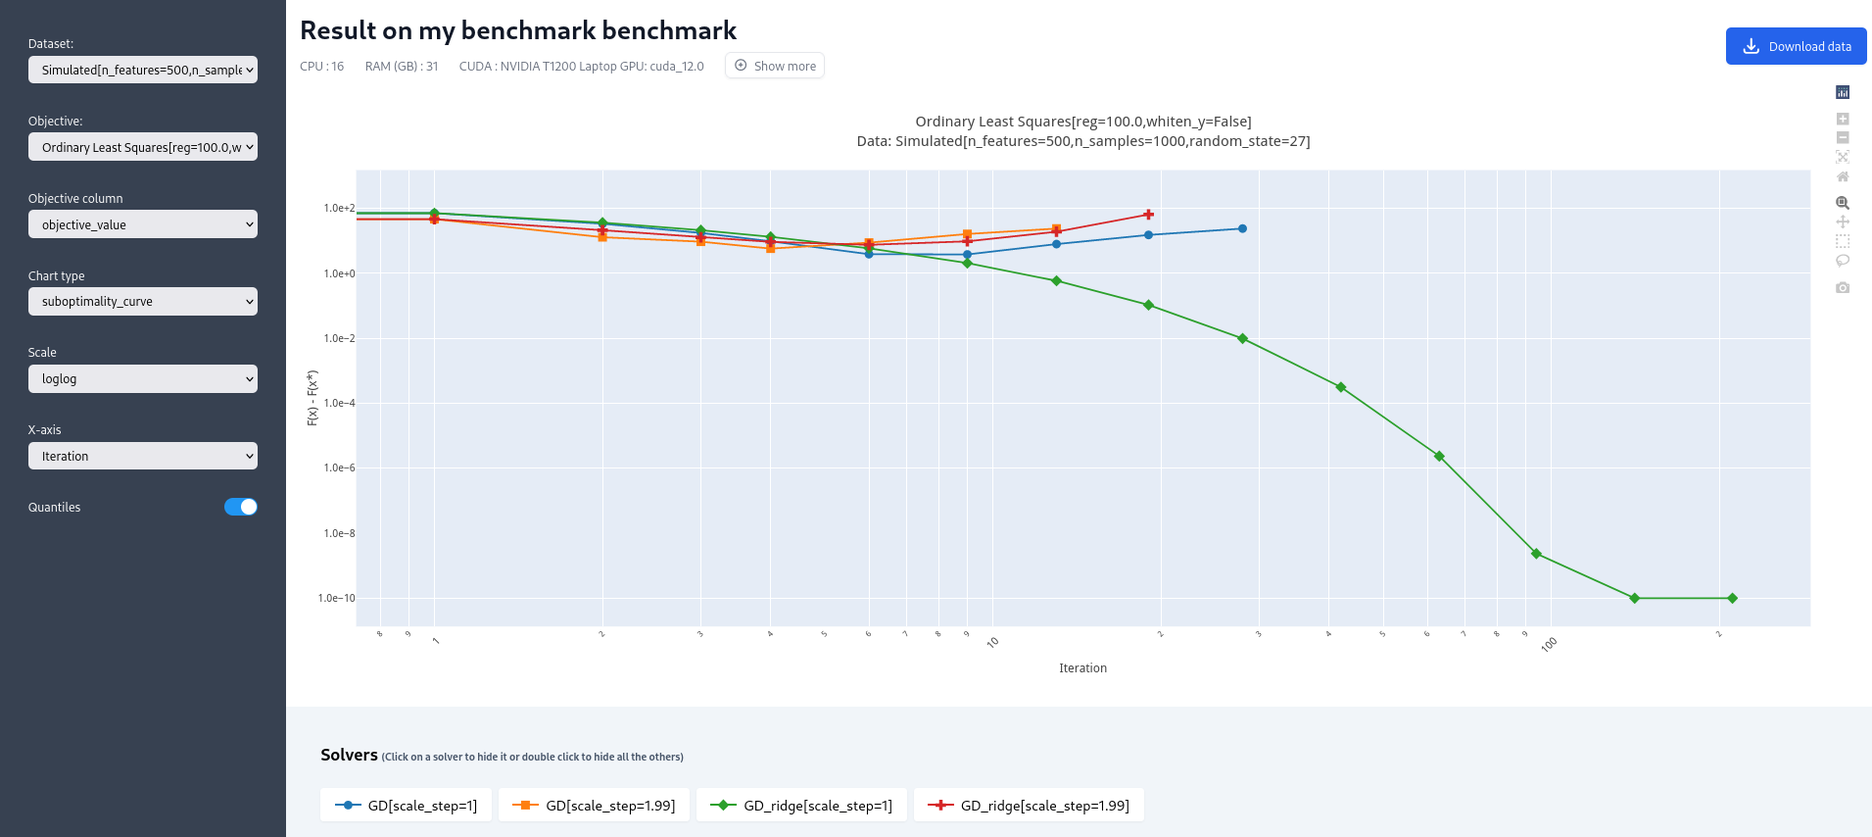
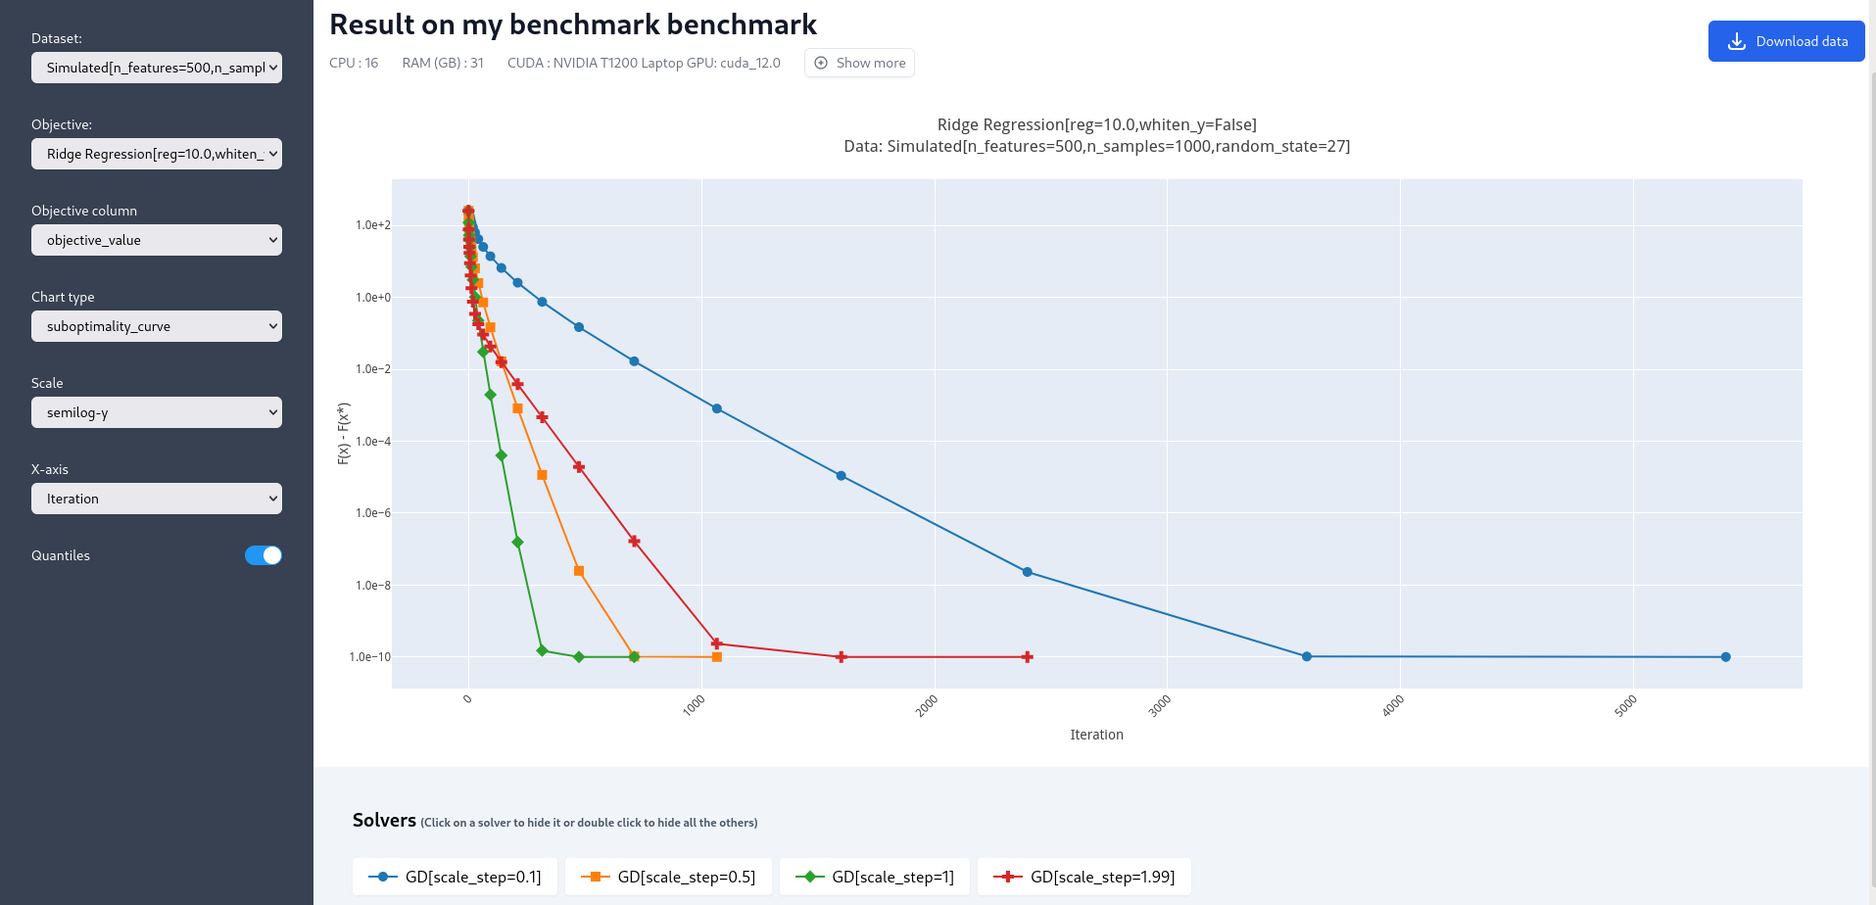
Updating the benchmark tutorial
- Simplification of the solver, only GD for ridge now
- Reworked the conclusion/observations
- Updated all links to match new documentation

The tutorial is broken until the release of 1.5 because template_benchmark is broken.

diff --git a/doc/tutorials/tutorial_understanding_building_benchmark.rst b/doc/tutorials/tutorial_understanding_building_benchmark.rst
@@ -1,22 +1,23 @@
 Understanding and building a simple benchmark
 =============================================
 
-Are you looking for a simple, step-by-step introduction to the `Benchopt <https://benchopt.github.io/#>`_ library?
+Are you looking for a simple, step-by-step introduction to the `Benchopt <https://benchopt.github.io/index.html>`_ library?
 Then look no further!
 In this tutorial, we are going to learn how to use the Benchopt library to compare various algorithms in order to minimize a given cost.
-This tutorial complements the `write a benchmark <https://benchopt.github.io/how.html>`_ webpage with a more practical, hands-on approach. 
+This tutorial complements the `write a benchmark <https://benchopt.github.io/benchmark_workflow/write_benchmark.html>`_ webpage with a more practical, hands-on approach. 
 
-Let's say you are interested in benchmarking solvers to minimize the cost function of the `ridge regression problem <https://en.wikipedia.org/wiki/Ridge_regression>`_, a variant of linear regression which is a common problem in supervised machine learning.
+Let's say you are interested in benchmarking solvers to minimize the cost function of the `ridge regression problem <https://en.wikipedia.org/wiki/Ridge_regression>`_, a variant of linear regression which is a common problem in supervised machine learning. This cost function writes as follows:
 
 .. math::
 
     f(\beta) = \frac{1}{2} {\|y - X\beta\|}^2 + \lambda{\|\beta\|}^2
 
 where
+
     - \\(y\\) is a vector with \\(m\\) elements, typically some observations
     - \\(X\\) is a matrix with \\(m \\times n\\) elements, typically the regressors
     - :math:`\beta` is a vector with \\(n\\) elements that we obtain by regressing \\(y\\) on \\(X\\).
-    - \\(\\|x\\|\\) is the euclidean norm of \\(x\\).
+    - \\(\\|\\cdot\\|\\) is the Euclidean norm.
      
 
 Let us also suppose that we are working with a specific optimization algorithm that aims at solving the ridge regression problem: `the gradient descent (GD) algorithm <https://en.wikipedia.org/wiki/Gradient_descent>`_.
@@ -30,18 +31,15 @@ Given an estimate :math:`\beta`, GD iterates the following step:
 where :math:`\eta` is the learning rate or stepsize, and controls how much the iterate is moved alongside the descent direction.
 The vector :math:`\nabla f(\beta)` is the gradient of the cost function defined above, evaluated at \\(\\beta\\).
 
-Even though GD is a simple algorithm, when applied to our ridge regression problem, we should be mindful of the two hyperparameters: the regularization parameter \\(\\lambda\\), and the gradient stepsize \\( \\eta\\).
+Ridge regression computed with GD is overall a simple procedure, however
+we should be mindful of the two hyperparameters: the regularization parameter \\(\\lambda\\), and the gradient stepsize \\( \\eta\\).
 It is very common in machine learning that we are facing a situation where we want to vary these parameters, and compare the behavior of our algorithm in each scenario.
 Benchopt we can create a benchmark for this problem, here is a screenshot of what we will get at the end of this tutorial.
 
-.. image:: screenshot_mytemplate_ridgeloss.png
+.. figure:: screenshot_mytemplate_ridgeloss.png
     :width: 800
 
 We can now dive into the framework and see how to leverage it to easily create our benchmark!
-
-..
-    - It is also fairly common to have to compare several different optimization algorithms to minimize the same cost function. For anyone who has experience in this, performing fair comparisons between various algorithms, which are typically implemented by other people, is quite challenging to do properly. For instance, our implementation of GD may be incorrect. If we trust the algorithm to return a loss function which is computed inside the GD code, it may potentially be artificially small. For instance, when implementing GD, we might mistakingly return as the loss :math:`\frac{1}{2} {\|y - X\beta\|_2}^2 + \frac{1}{2}\lambda{\|\beta\|_2}^2` where the regularization has been wrongly halved. Then this implementation of GD would appear much better, but in fact it is being unfairly compared to competitors and the results reported would be inaccurate.
-
 
 Installing Benchopt
 -------------------
@@ -50,30 +48,27 @@ Let's start by installing the benchopt package.
 It is a python package, so we are assuming that you are starting this tutorial with a functioning python installation.
 It is recommended to run all this tutorial in a dedicated environment (such as a `virtual environment <https://docs.python.org/fr/3/library/venv.html>`_ or a conda environment)
 
-.. 
-    , which you can create in an empty repository with the following commands in a linux terminal:
-
-    .. code-block:: bash
-
-        python -m venv benchopt_tutorial_1
-        source benchopt_tutorial_1/bin/activate
-
 Benchopt can be installed simply using ``pip`` by running in a terminal
 
 .. prompt:: bash $
 
-    pip install benchopt
+    pip install -U benchopt
 
 Benchopt and its dependencies are going to be installed, just wait until this is done.
-If you have any issue with the installation, you may have a look at the `installation page <https://benchopt.github.io/#install>`_.
+If you have any issue with the installation, you may have a look at the `installation page <https://benchopt.github.io/get_started.html>`_.
 
 Installing and running a first benchmark
 ----------------------------------------
 
 Benchopt in itself is like a mother package: it supervises and runs smaller libraries, a.k.a. the benchmarks.
 Therefore, **benchmarks are repositories** with a predefined structure and some required files (we will go over each of them in the next section) that are processed by benchopt.
-The benchmark specifies information about the problem (typically the loss function to minimize), the dataset on which the algorithms are tested (values of \\(X \\) and \\( y\\)) and the solvers (like our GD algorithm).
-It is likely that if you are reading this tutorial, you are in fact mostly interested in writing and running a benchmark.
+The benchmark specifies information about:
+
+    - the problem (typically the loss function to minimize), 
+    - the dataset on which the algorithms are tested (values of \\(X \\) and \\( y\\)) 
+    - the solvers (like our GD algorithm).
+     
+It is likely that if you are reading this tutorial, you are in fact interested in writing and running a benchmark.
 
 To write a benchmark, it is recommended to start from the `template benchmark <https://github.com/benchopt/template_benchmark>`_ shared in the Benchopt organisation.
 To get this template and rename it ``my_benchmark``, you can clone it from its Github repository:
@@ -81,6 +76,8 @@ To get this template and rename it ``my_benchmark``, you can clone it from its G
 .. prompt:: bash $
 
     git clone git@github.com:benchopt/template_benchmark my_benchmark
+
+**bugged right now, use commit 9f367b4d2803ec3130efbef80c1e18977d1c3dd0**
 
 The template benchmark is not designed to model our ridge regression problem, but luckily it is pretty close!
 The cost which is implemented in the template benchmark is the Ordinary Least Squares (OLS)
@@ -92,7 +89,7 @@ The cost which is implemented in the template benchmark is the Ordinary Least Sq
 and the only implemented solver is GD with \\(\\nabla g(\\beta) = -X^Ty + X^TX\\beta \\) the gradient of \\(g\\) at \\(\\beta \\).
 
 We will modify this template to adapt it to the ridge regression problem next, but before that let us run this benchmark.
-In other words, let us use benchopt to read the contents of the template benchmark and run GD on OLS with a predefined set of stepsizes, in our case \\( [1, 1.99] \\) (the stepsize is scaled by the inverse of the gradient's Lipschitz constant, you can ignore this detail if you are not familiar with this concept).
+In other words, let us use benchopt to read the contents of the template benchmark and run GD on OLS. The solver will use a predefined set of stepsizes, in our case \\( [1, 1.99] \\) (the stepsize is scaled by the inverse of the gradient's Lipschitz constant, you can ignore this detail if you are not familiar with this concept).
 
 To run the template benchmark, simply run the following command in the terminal:
 
@@ -101,19 +98,21 @@ To run the template benchmark, simply run the following command in the terminal:
     benchopt run my_benchmark
 
 
-.. image:: console_template.png
+.. figure:: console_template.png
     :width: 600
-    :alt: A screenshot of the console during the benchopt run command
+    
+    A screenshot of the console during the benchopt run command
 
-You will see something similar to this in your terminal
+You will see something similar to the screenshot above in your terminal
 
-    - *Simulated* tells us that the dataset run by benchopt is the simulation set up in the benchmark
+    - *Simulated* tells us that the dataset run by benchopt is the simulation set up in the benchmark.
     - *Ordinary Least Squares* tells us which loss is minimized, and the hyperparameters are written in bracket. 
     - *GD* is a line indicating the progress of algorithm GD for this problem (Simulated dataset, OLS loss). Again its hyperparameters are written in brackets (here the stepsize value).
 
 Once the benchmark has been run, a window should open in your default navigator.
 This provides a visualization of the results of the run, which is useful to immediately observe, comment and share the results.
 After running the template benchmark, we can observe the convergence plots of GD with the two different stepsize choices, for two different simulated datasets.
+
 The convergence plot scales can be changed for easier reading.
 In this specific toy example, the runtime is so low that the convergence plot with respect to time may not be reliable: you can also look at the results in terms of iterations, by scrolling the menu on the bottom left of the webpage.
 Feel free to play around with the plotting options here!
@@ -127,7 +126,7 @@ The template benchmark we are using at the moment is not exactly encoding the in
 To properly modify the benchmark, first we need to dive deeper into how benchmarks work.
 To follow through this section, it is advised to open an editor (like vscode) at the root of the template benchmark to easily navigate between the files and folders.
 
-Here is the architecture of our template benchmark:
+Here is the architecture of our template benchmark (files which are not mandatory were ignored):
 
 ::
 
@@ -142,17 +141,15 @@ Here is the architecture of our template benchmark:
     │   └── ...
     ├── objective.py
     ├── README.rst
-    ├── clean_template.py          
-    ├── test_config.py          
-    └── .gitignore
 
 The three most important files are
 
     - ``objective.py``: it contains the information about the cost function we want to minimize. In other words, it defines the formal problem we are interested in.
     - ``solvers/python-gd.py``: it contains the information and code for the gradient descent solver, dedicated to the problem at hand.
     - ``datasets/simulated.py``: it contains the information about the dataset, i.e. the values of \\(y \\) and \\(X \\) used to test the algorithms. All benchmark in fact must have a ``simulated.py`` file which is used for testing by Benchopt.
+     
+Any benchmark must implement these three components; **in Benchopt indeed we consider that objectives, solvers and dataset are the building blocks of any optimization problem**.
 
-Any benchmark must implement these three components; in Benchopt indeed we consider that objectives, solvers and dataset are the building blocks of any optimization problem.
 There can be several solvers in the ``solvers/`` directory, and similarly there can be several datasets in the ``datasets/`` directory.
 Benchopt will then run all the solvers for each dataset.
 The other files are not very important right now, let us forget about them.
@@ -161,7 +158,7 @@ The content of ``objective.py``, ``solvers`` and ``dataset`` is predetermined.
 In particular these three files each define a class inherited from Benchopt.
 The following figure details the methods that must be implemented in each file, and the order in which Benchopt will call these methods:
 
-.. image:: benchopt_schema_dependency.svg
+.. figure:: benchopt_schema_dependency.svg
     :width: 800
 
 There are two kind of contents.
@@ -172,7 +169,7 @@ First, code that defines core elements of the problem:
     .. code-block:: python
 
         def compute(self, beta):
-            diff = self.y - self.X.dot(beta)
+            diff = self.y - self.X @ beta
             return dict(
                 value=.5 * diff.dot(diff)
             )
@@ -205,10 +202,8 @@ The second type of methods found in these three python files are the **communica
 Indeed, solvers, dataset and objectives need to exchange information.
 Typically, the solver needs to know the parameters used for the loss, in our case the value of the regularization parameter.
 The objective needs to know the values of \\( X\\) and \\( y\\) defined in the dataset.
-This part of the benchmark can rapidly give you a headache if you are not familiar with the structure of the benchmark, but the figure above should be a good reference point.
+This part of the benchmark can be hard to comprehend if you are not familiar with the structure of the benchmark, but the figure above should be a good reference point.
 When a method from a class feeds a method in another class, it returns a dictionary (such as ``get_data`` we just discussed), otherwise it simply updates the class attributes.
-
-.. The previous figure may be updated to detail these communication methods.
 
 Finally, one may wonder where to define the hyperparameters of the problem.
 The general rule of thumb is that hyperparameters are defined as attributes of solvers, objectives or dataset depending on where it makes the most sense.
@@ -235,15 +230,14 @@ Therefore we need to implement the following modifications:
 We will not modify anything in the dataset since the inputs \\(X,y \\) of the regression and ridge regression are the same.
 
 Let's start with the ``objective.py`` file.
-The regularization parameter values are part of the formal definition of the problem, so we can define them as attributes of the ``Objective`` class.
-The ``whiten_y`` parameter is already implemented, so we can simply add a ``reg`` parameter in the ``parameters`` dictionary.
+The regularization parameter values are part of the formal definition of the problem, so we can define them as attributes of the ``Objective`` class. In other words, we can simply add a ``reg`` parameter in the ``parameters`` dictionary to tell benchopt to grid over this parameter in the runs. The ``whiten_y`` parameter is not useful for us here, and we will remove the True option. 
 
 .. code-block:: python
 
     class Objective(BaseObjective):
         name = "Ordinary Least Squares"
         parameters = {
-            'whiten_y': [False, True],
+            'whiten_y': [False],
             'reg': [1e1, 1e2]
         }
 
@@ -264,7 +258,7 @@ Then we update the ``compute`` method as follows:
 
 We have done several modifications here:
 
-    - The ``l2reg`` variable computes the regularization term. It is added to the OLS term in the ``value`` field of the output dictionary. This ``value`` field is the main loss of the benchmark, used by all algorithms to track convergence.
+    - The ``l2reg`` variable computes the regularization term. It is added to the OLS term in the ``value`` field of the output dictionary. This ``value`` field is the main loss of the benchmark, used by all algorithms to track convergence. In fact the naming convention here matters, by default the main loss must be named ``value''.
     - Additional metrics are computed, namely ``ols`` and ``penalty``. Benchmark will compute these metrics alongside the loss function, and we will be able to look at them in the resulting plots.
 
 One additional modification handles the fact that the solvers will require the knowledge of \\(\\lambda\\).
@@ -280,25 +274,22 @@ It can be modified as follows
                 reg=self.reg
             )
 
-That's it for the ``objective.py`` file!
-We can now modify the solver.
-Instead of modifying directly ``python-gd.py``, let's create a new solver, ``python-gd-ridge.py``.
-Duplicate the ``python-gd.py`` file and rename it, e.g. using the following command in the ``solvers/`` directory
+Moreover we should also change the name of the objective from ``Ordinary Least Squares`` to ``Ridge Regression`` in the attributes of the ``Objective`` class in ``objective.py``.
 
-.. prompt:: bash $
+.. code-block:: python
 
-    cp python-gd.py python-gd-ridge.py
+    class Objective(BaseObjective):
+        name = 'Ridge Regression'
 
-You should now have a second file in the ``solvers/`` directory.
-Since Benchopt easily runs several algorithms and compares them natively, we will be able to see if adapting the GD algorithm to the ridge problem is actually useful or not!
+That's it for the ``objective.py`` file! We can now modify the solver. For simplicity we may directly edit ``python-gd.py``, but adding a new solver to the benchmark is a simple as adding another file in the solvers folder (more information in the `add a solver tutorial <https://benchopt.github.io/tutorials/add_solver.html>`_). 
 
 Modifying the solver means updating the ``run`` method, more specifically the gradient formula.
-Inside the ``python-gd-ridge.py`` file, the new ``run`` method looks like this
+Inside the ``python-gd.py`` file, the new ``run`` method looks like this
 
 .. code-block:: python
 
     def run(self, n_iter):
-        L = np.linalg.norm(self.X, ord=2) ** 2
+        L = np.linalg.norm(self.X, ord=2) ** 2 + 2*self.reg
         alpha = self.scale_step / L
         beta = np.zeros(self.X.shape[1])
         for _ in range(n_iter):
@@ -314,22 +305,16 @@ To get this value from the ``objective.py`` file, we need to update the ``set_ob
     def set_objective(self, X, y, reg):
         self.X, self.y, self.reg = X, y, reg
 
-As a final step, we can change the name of our new algorithm to ``"GD-ridge"`` in the class attribute ``name``, to differentiate it from ``"GD"`` in the visualization of the results.
-
+As a final step, because the goal of this benchmark is to look at GD performance for various hyperparameters, and in particular the stepsize, we are interested in setting the stepsize grid. The values taken by the stepsize are defined as attributes of the solver GD class, since they are parameters of the solver.
+Let us add scaled values 0.1 and 0.5 to the stepsize grid.
 
 .. code-block:: python
 
     class Solver(BaseSolver):
-        name = 'GD_ridge'
-    
-Similarly, we should change the name of the objective from ``Ordinary Least Squares`` to ``Ridge Regression`` in the attributes of the ``Objective`` class in ``objective.py``
-
-.. code-block:: python
-
-    class Objective(BaseObjective):
-        name = 'Ridge Regression'
-
-.. todo: update the figures screenshot with the update names for objective and the benchmark
+        name = 'GD'
+        parameters = {
+            'scale_step': [0.1, 0.5, 1, 1.99],
+        }
 
 
 And that's it, you now have your first benchmark setup! Congratulations :)
@@ -341,39 +326,39 @@ We run the benchopt with the same command as earlier, in the parent directory of
 
     benchopt run my_benchmark
 
-Notice how the prompt in the terminal now contains logging for the two algorithms ``GD`` and ``GD-ridge``.
+Notice how the prompt in the terminal now contains logging for the GD algorithm with each stepsize 0.1, 0.5, 1 and 1.99.
 
-.. image:: console_ridge.png
+.. figure:: console_ridge.png
     :width: 600
+
+    Screenshot of the console after running the updated benchmark.
 
 Upon completion of the run, you should again have all the results collected in a new interactive window in your default web navigator.
 There is a lot of interesting information contained in these results.
 For instance, select the following plotting options:
 
     - Simulated[n_features=500, n_samples=1000]
-    - Ordinary Least Squares[reg=100.0, whiten_y=False]
+    - Ridge Regression[reg=10.0, whiten_y=False]
     - objective_value
     - suboptimality_curve
-    - loglog
+    - semilog-y
     - iteration
 
-You should see the following plot 
+You should see the following plot (click image to zoom).
 
-.. image:: screenshot_mytemplate_ridgeloss.png
+.. figure:: screenshot_mytemplate_ridgeloss.png
     :width: 800
 
-We may observe that the GD-ridge with ``stepsize=1`` reaches a much lower cost value that other methods, in particular GD without the ridge penalisation term.
-This is expected since GD does not minimizes \\(f(\\beta) \\) but rather  \\( g(\\beta) \\).
-Interestingly, using ``stepsize=1.99`` leads to large errors.
-This is caused by the scaling of the stepsize (using the Lipschitz constant) not being updated in our GD-ridge algorithm, and the stepsize is therefore not safe.
+    Screenshot of the results computed by benchopt, shown in the default navigator. Plotting options can be manually changed in the left part of the window.
+
+We may observe that the GD-ridge with ``stepsize=1`` reaches a low cost value faster that when using smaller or larger stepsize. This is expected since the stepsize has been scaled optimally according to the theory of convex optimization, and therefore ``stepsize=1`` is in principle the fastest safe step.
 
 One of the interesting features of Benchopt is its ability to easily compute and show several metrics over the run.
-We have computed the OLS loss \\(g(\\beta) \\) alongside the iterations, and we can observe its values by changing the ``Objective_column`` field to ``ols``
-Observe that now GD appears more efficient than GD-ridge
-Again this is excepted since GD is designed to minimize the OLS loss.
+We have computed the ridge penalization alongside the iterations, and we can observe its values by changing the ``Objective_column`` field to ``objective_penalty``. For better visualisation, you may change the ``Scale`` field to  ``semilog-x``. Observe that the ridge regularisation term increases with the iterations. Again this is expected since we initialized GD with a null vector for which the Euclidean norm is zero.
 
 Concluding remarks
 ------------------
 
-Thank you for completing this tutorial! Hopefully your understanding of Benchopt benchmark is now sufficient to start your own benchmark
-There are a lot of other interesting features to Benchopt, feel free to go over the online documentation to learn more about `Command Line Interface <https://benchopt.github.io/cli.html>`_, `publishing benchmark results <https://benchopt.github.io/publish.html>`_, or `configuring Benchopt <https://benchopt.github.io/config.html>`_.
+Thank you for completing this tutorial! Hopefully your understanding of Benchopt benchmark is now sufficient to start your own benchmark. You may find more information in the online documentation about `writing a benchmark <https://benchopt.github.io/benchmark_workflow/write_benchmark.html>`_. Moreover, there are a lot of other interesting features to Benchopt, feel free to go over the online documentation to learn more about `Command Line Interface <https://benchopt.github.io/user_guide/CLI_ref.html>`_, `publishing benchmark results <https://benchopt.github.io/benchmark_workflow/publish_benchmark.html>`_, or `configuring Benchopt <https://benchopt.github.io/benchmark_workflow/config_benchopt.html>`_.
+
+As a final word, for simplicity, the way we cloned the template_benchmark repository to create our benchmark slightly differs from the recommended procedure. Instead, to start you benchmark, follow the instructions found in the `README.rst file <https://github.com/benchopt/template_benchmark>`_.

diff --git a/doc/ex_tuto.rst b/doc/ex_tuto.rst
@@ -8,6 +8,7 @@ Tutorials
 =========
 
 .. toctree::
+    :maxdepth: 1
 
     tutorials/tutorial_understanding_building_benchmark.rst
 
